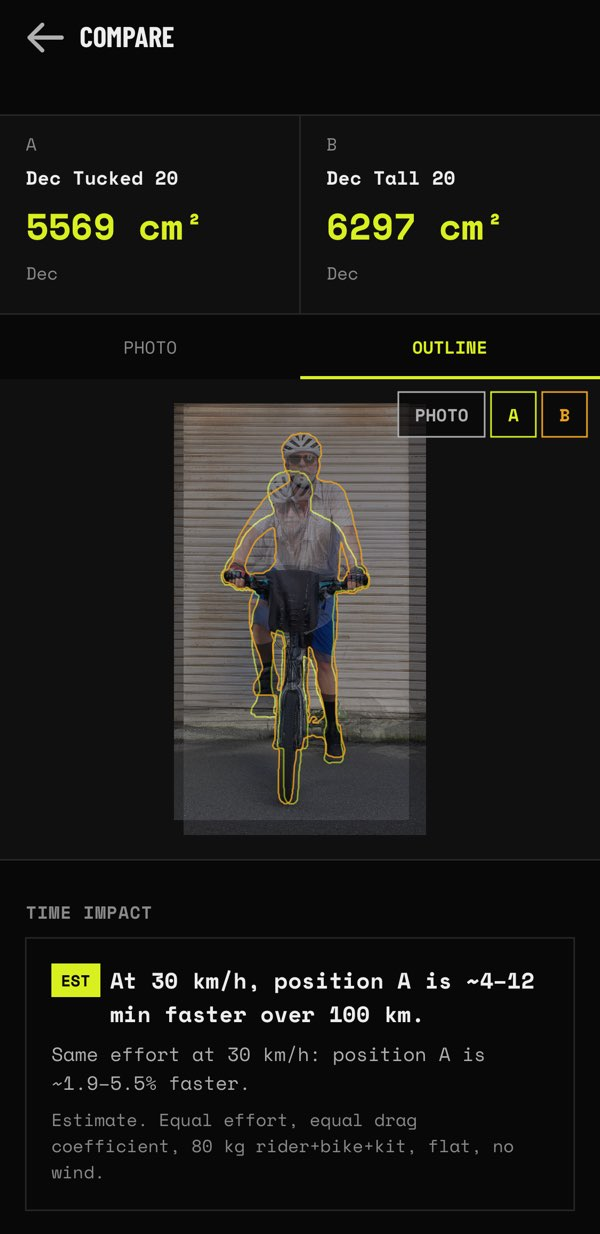
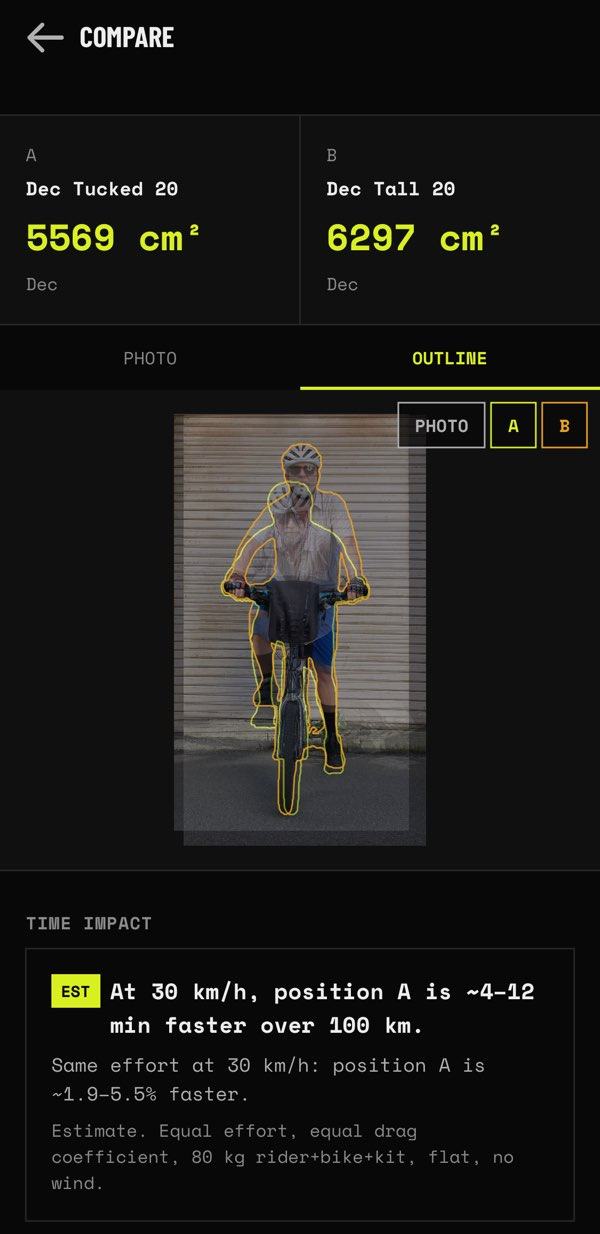
feat(site): compare shot swaps outline/photo on click
The frame itself is the control (a real button, keyboard-reachable), with an
opacity crossfade; the separate toggle buttons are gone. Reference originals
folder is gitignored.

diff --git a/docs/index.html b/docs/index.html
@@ -276,7 +276,7 @@ setTimeout(function () {
         <figcaption class="shot-cap"><b>02</b> Tap the bar ends, then the wheel.</figcaption>
       </figure>
       <figure class="shot">
-        <div class="shot-frame">
+        <button type="button" class="shot-frame shot-swap" aria-pressed="false" aria-label="The compare screen: two positions with their frontal areas and an estimated time impact. Press to swap between the outline and photo views.">
           <picture>
             <source srcset="img/shot-03.avif" type="image/avif">
             <img src="img/shot-03.jpg" width="600" height="1234" loading="lazy" alt="The compare screen: two positions with their frontal areas, overlaid outlines, and an estimated time impact.">
@@ -285,12 +285,8 @@ setTimeout(function () {
             <source srcset="img/shot-03b.avif" type="image/avif">
             <img src="img/shot-03b.jpg" width="600" height="1234" loading="lazy" alt="The same compare screen with the photo shown under the overlaid outlines.">
           </picture>
-        </div>
+        </button>
         <figcaption class="shot-cap"><b>03</b> Read the area, then compare any two setups.</figcaption>
-        <div class="shot-toggle" role="group" aria-label="Compare view">
-          <button type="button" aria-pressed="true">Outline</button>
-          <button type="button" aria-pressed="false">Photo</button>
-        </div>
       </figure>
     </div>
   </section>

diff --git a/docs/styles.css b/docs/styles.css
@@ -336,17 +336,9 @@ p.body em{color:var(--fg); font-style:italic}
   position:relative; aspect-ratio:600/1234; background:var(--bg1); border:1px solid var(--line); overflow:hidden;
 }
 .shot-frame img{width:100%; height:100%; object-fit:cover; display:block}
-.shot-alt img{position:absolute; inset:0; opacity:0; transition:opacity .2s var(--ease-out)}
-.show-alt .shot-alt img{opacity:1}
-/* mirrors the app's PHOTO / OUTLINE segmented control */
-.shot-toggle{display:flex; margin-top:10px}
-.shot-toggle button{
-  flex:1; padding:7px 0; cursor:pointer;
-  font-family:var(--mono); font-size:11px; letter-spacing:2px; text-transform:uppercase;
-  background:transparent; color:var(--fg2); border:1px solid var(--line);
-}
-.shot-toggle button + button{border-left:none}
-.shot-toggle button[aria-pressed="true"]{background:var(--acc); border-color:var(--acc); color:#0b0d0f}
+.shot-alt img{position:absolute; inset:0; opacity:0; transition:opacity .35s var(--ease-out)}
+.shot-swap[aria-pressed="true"] .shot-alt img{opacity:1}
+.shot-swap{display:block; width:100%; padding:0; cursor:pointer; font:inherit}
 .shot-cap{
   font-family:var(--mono); font-size:13px; color:var(--fg2);
   margin-top:14px; line-height:1.5;

diff --git a/docs/site.js b/docs/site.js
@@ -94,14 +94,10 @@
     }
   } catch (err) { /* see hero-block comment above — swallow and continue */ }
 
-  /* ---------- compare screenshot toggle ---------- */
-  document.querySelectorAll('.shot-toggle').forEach(function (group) {
-    var buttons = group.querySelectorAll('button');
-    buttons.forEach(function (btn, i) {
-      btn.addEventListener('click', function () {
-        buttons.forEach(function (b) { b.setAttribute('aria-pressed', String(b === btn)); });
-        group.parentNode.classList.toggle('show-alt', i === 1);
-      });
+  /* ---------- compare screenshot swap ---------- */
+  document.querySelectorAll('.shot-swap').forEach(function (btn) {
+    btn.addEventListener('click', function () {
+      btn.setAttribute('aria-pressed', String(btn.getAttribute('aria-pressed') !== 'true'));
     });
   });
 
